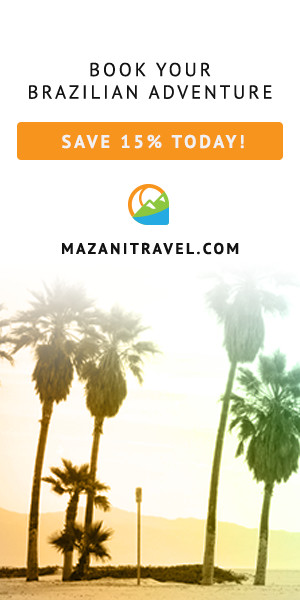
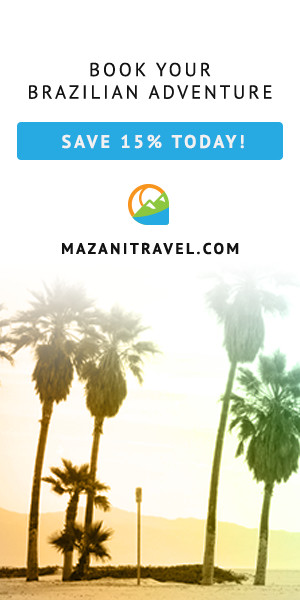
revamped add and added border for emphasis

Changed region(s): [[0.03, 0.18, 0.96, 0.27]]

diff --git a/css/main.min.css b/css/main.min.css
@@ -1,1 +1,1 @@
-.active,mark{font-weight:700}a,hr{padding:0}a:link,ins{text-decoration:none}#mobilenav,body{background:#F1F1F2}.ui-datepicker,body{font-family:'PT Sans',Helvetica,Futura,sans-serif}#info img,article,aside,details,figcaption,figure,footer,header,hgroup,hr,menu,nav,section{display:block}#confirm,#desinationsLinks,#info h1,#mobilenav,#socialnav,.jumbotron,.sectionHeader{text-align:center}abbr,address,article,aside,audio,b,blockquote,body,canvas,caption,cite,code,dd,del,details,dfn,div,dl,dt,em,fieldset,figcaption,figure,footer,form,h1,h2,h3,h4,h5,h6,header,hgroup,html,i,iframe,img,ins,kbd,label,legend,li,mark,menu,nav,object,ol,p,pre,q,samp,section,small,span,strong,sub,summary,sup,table,tbody,td,tfoot,th,thead,time,tr,ul,var,video{margin:0;padding:0;border:0;outline:0;vertical-align:baseline;background:0 0}ins,mark{background-color:#ff9;color:#000}nav ul{list-style:none}blockquote,q{quotes:none}blockquote:after,blockquote:before,q:after,q:before{content:'';content:none}a{margin:0;vertical-align:baseline;background:0 0}mark{font-style:italic}del{text-decoration:line-through}abbr[title],dfn[title]{border-bottom:1px dotted;cursor:help}table{border-collapse:collapse;border-spacing:0}hr{height:1px;border:0;border-top:1px solid #ccc;margin:1em 0}input,select{vertical-align:middle}header{position:relative;-webkit-box-shadow:0 3px 5px 0 rgba(109,110,112,1);-moz-box-shadow:0 3px 5px 0 rgba(109,110,112,1);box-shadow:0 3px 5px 0 rgba(109,110,112,1)}#logo h1{width:313px;height:62px;margin-top:20px;background:url(../img/logo.png) left center no-repeat;text-indent:-2000px}.sectionHeader{padding:1.5em 0;color:#414142}#mobilenav i,#mobilenav ul li a,#mobilenav ul li a:link,#mobilenav ul li a:visited{color:#27A9E1}.navbar{margin-bottom:0}#navigation{margin-top:3em}#mainnav ul li a:link,#mainnav ul li a:visited{color:#404041}#mainnav ul li{font-size:1.25em;display:inline-block}#mainnav ul li a{padding-right:.5em}#mainnav ul li a:hover{background:0 0;font-weight:700}#mobilenav i{font-size:2em;padding:.5em 0}#mobilenav ul{border-top:1px solid #27AAE1}#mobilenav ul li{display:inline-block;font-size:1.5em;padding:.5em 0}#mobilenav ul li a{padding:0}#socialnav ul li{display:inline-block;font-size:2em;padding:.25em}#socialnav ul li a{color:#F1F1F2;padding:.25em .5em;border:2px solid #F1F1F2;border-radius:.25em}#socialnav ul li a:hover{color:#fff;border:2px solid #fff}.jumbo-btn,.jumbo-default-btn,.ui-state-highlight,.ui-widget-content .ui-state-highlight,.ui-widget-header .ui-state-highlight{border:1px solid #F7931D}#footernav ul li{display:inline-block;padding:.5em .5em 0 0}#footernav ul li a{color:#F1F1F2}#desinationsLinks ul li{display:inline-block;margin-top:1.5em;font-size:1.5em}#desinationsLinks ul li a{margin:1em;color:#414142}#desinationsLinks ul li a:hover{color:#6D6E71}.jumbotron{height:900px;background:url(../img/bg.jpg) top center no-repeat #414142;background-size:cover;margin-bottom:0;color:#404041}.jumbotron h1{margin-top:2em;color:#404041}.jumbotron h2,.jumbotron p{margin:1em;color:#404041}#bookingSection,#confirm,#confirmationButtons{margin:2em 0}#bookButtons,#infoContent{margin-top:2em}.jumbo-btn{background:#F7931D;color:#404041}.jumbo-btn:hover{background:#D47608;color:#F1F1F2}.jumbo-default-btn{background:rgba(241,241,242,.9);color:#404041}.jumbo-default-btn:hover{background:rgba(215,215,217,.9)}.form-control{background:#fff;color:#6D6E71}#bookForm span label{display:block;font-size:1.5em;font-weight:400;margin:.5em 0}#bookForm input,#bookForm select,button{margin-right:1em}.ui-widget-header{background:#F1F1F2}.ui-datepicker .ui-datepicker-header,.ui-datepicker .ui-datepicker-next,.ui-datepicker .ui-datepicker-prev,.ui-datepicker .ui-datepicker-title{background:#27A9E1}.ui-state-default,.ui-widget-content .ui-state-default,.ui-widget-header .ui-state-default{background:#F1F1F2}#confirm{background:#fff}#confirm h2,#confirm h3{font-weight:700;margin:.5em 0}#confirm h4{font-weight:700;margin:1em 0}#destinationsGallery{margin-top:2em;margin-bottom:2em}#destinationsGallery .photo{background:#F7941E;padding:0}#destinationsGallery .caption{position:absolute;font-size:3em;font-weight:700;color:#F1F2F2;padding:2em .25em}#destinationsGallery img{opacity:.4}#destinationsGallery img:hover{opacity:1}footer{background:#F7931D;padding:1em 0;color:#F1F1F2}#info{background:#fff;padding:4em 0}#info h1{font-size:400%;margin-bottom:1em}#info img{margin:0 auto}#infoContent h3,#infoContent ul{margin:1em 0 .5em}#desinationsLinks{margin:1.5em 0 .25em}#desinationsLinks h2{margin-bottom:.5em}@media only screen and (max-width:767px){#logo h1{width:62px;margin:1em auto 0}.sectionHeader{margin:0 1em}#mobilenav ul li{font-size:1.25em;display:block}#navigation{margin-top:0}#logo,#navigation{float:none!important}#attractions,#footernav,#funfacts,#package,#socialnav{margin-top:1em}#footernav ul li{padding:.5em 1em}#desinationsLinks ul li{display:block;padding:.5em;margin:.25em}.jumbotron{height:600px}.jumbotron h1{font-size:2em}.jumbotron h2{font-size:1.5em}#destinationsGallery{margin-bottom:0}#destinationsGallery .caption{font-size:2em;color:#F1F2F2}#bookButtons{text-align:center}#credits,#footernav{margin-bottom:2em;text-align:center}#credits h2,#footernav{font-weight:700;font-size:1.125em}#credits p,#infoContent{padding:0 1.5em}#credits h2,#credits p,#footernav h2{margin:.5em 0}}@media only screen and (min-width:768px) and (max-width:990px){#logo h1{background-size:75%}#mainnav ul li a{font-size:1.5rem}#bookForm{text-align:center}}
+.active,mark{font-weight:700}a,hr{padding:0}a:link,ins{text-decoration:none}#mobilenav,body{background:#F1F1F2}.ui-datepicker,body{font-family:'PT Sans',Helvetica,Futura,sans-serif}#info img,article,aside,details,figcaption,figure,footer,header,hgroup,hr,menu,nav,section{display:block}#confirm,#desinationsLinks,#info h1,#mobilenav,#socialnav,.jumbotron,.sectionHeader{text-align:center}abbr,address,article,aside,audio,b,blockquote,body,canvas,caption,cite,code,dd,del,details,dfn,div,dl,dt,em,fieldset,figcaption,figure,footer,form,h1,h2,h3,h4,h5,h6,header,hgroup,html,i,iframe,img,ins,kbd,label,legend,li,mark,menu,nav,object,ol,p,pre,q,samp,section,small,span,strong,sub,summary,sup,table,tbody,td,tfoot,th,thead,time,tr,ul,var,video{margin:0;padding:0;border:0;outline:0;vertical-align:baseline;background:0 0}ins,mark{background-color:#ff9;color:#000}nav ul{list-style:none}blockquote,q{quotes:none}blockquote:after,blockquote:before,q:after,q:before{content:'';content:none}a{margin:0;vertical-align:baseline;background:0 0}mark{font-style:italic}del{text-decoration:line-through}abbr[title],dfn[title]{border-bottom:1px dotted;cursor:help}table{border-collapse:collapse;border-spacing:0}hr{height:1px;border:0;border-top:1px solid #ccc;margin:1em 0}input,select{vertical-align:middle}header{position:relative;-webkit-box-shadow:0 3px 5px 0 rgba(109,110,112,1);-moz-box-shadow:0 3px 5px 0 rgba(109,110,112,1);box-shadow:0 3px 5px 0 rgba(109,110,112,1)}#logo h1{width:313px;height:62px;margin-top:20px;background:url(../img/logo.png) left center no-repeat;text-indent:-2000px}.sectionHeader{padding:1.5em 0;color:#414142}#mobilenav i,#mobilenav ul li a,#mobilenav ul li a:link,#mobilenav ul li a:visited{color:#27A9E1}.navbar{margin-bottom:0}#navigation{margin-top:3em}#mainnav ul li a:link,#mainnav ul li a:visited{color:#404041}#mainnav ul li{font-size:1.25em;display:inline-block}#mainnav ul li a{padding-right:.5em}#mainnav ul li a:hover{background:0 0;font-weight:700}#mobilenav i{font-size:2em;padding:.5em 0}#mobilenav ul{border-top:1px solid #27AAE1}#mobilenav ul li{display:inline-block;font-size:1.5em;padding:.5em 0}#mobilenav ul li a{padding:0}#socialnav ul li{display:inline-block;font-size:2em;padding:.25em}#socialnav ul li a{color:#F1F1F2;padding:.25em .5em;border:2px solid #F1F1F2;border-radius:.25em}#socialnav ul li a:hover{color:#fff;border:2px solid #fff}.jumbo-btn,.jumbo-default-btn,.ui-state-highlight,.ui-widget-content .ui-state-highlight,.ui-widget-header .ui-state-highlight{border:1px solid #F7931D}#footernav ul li{display:inline-block;padding:.5em .5em 0 0}#footernav ul li a{color:#F1F1F2}#desinationsLinks ul li{display:inline-block;margin-top:1.5em;font-size:1.5em}#desinationsLinks ul li a{margin:1em;color:#414142}#desinationsLinks ul li a:hover{color:#6D6E71}.jumbotron{height:900px;background:url(../img/bg.jpg) top center no-repeat #414142;background-size:cover;margin-bottom:0;color:#404041}.jumbotron h1{margin-top:2em;color:#404041}.jumbotron h2,.jumbotron p{margin:1em;color:#404041}#bookingSection,#confirm,#confirmationButtons{margin:2em 0}#bookButtons,#infoContent{margin-top:2em}.jumbo-btn{background:#F7931D;color:#404041}.jumbo-btn:hover{background:#D47608;color:#F1F1F2}.jumbo-default-btn{background:rgba(241,241,242,.9);color:#404041}.jumbo-default-btn:hover{background:rgba(215,215,217,.9)}.form-control{background:#fff;color:#6D6E71}#bookForm span label{display:block;font-size:1.5em;font-weight:400;margin:.5em 0}#bookForm input,#bookForm select,button{margin-right:1em}.ui-widget-header{background:#F1F1F2}.ui-datepicker .ui-datepicker-header,.ui-datepicker .ui-datepicker-next,.ui-datepicker .ui-datepicker-prev,.ui-datepicker .ui-datepicker-title{background:#27A9E1}.ui-state-default,.ui-widget-content .ui-state-default,.ui-widget-header .ui-state-default{background:#F1F1F2}#confirm{background:#fff}#confirm h2,#confirm h3{font-weight:700;margin:.5em 0}#confirm h4{font-weight:700;margin:1em 0}#ad img{border:1px solid #404041}#destinationsGallery{margin-top:2em;margin-bottom:2em}#destinationsGallery .photo{background:#F7941E;padding:0}#destinationsGallery .caption{position:absolute;font-size:3em;font-weight:700;color:#F1F2F2;padding:2em .25em}#destinationsGallery img{opacity:.4}#destinationsGallery img:hover{opacity:1}footer{background:#F7931D;padding:1em 0;color:#F1F1F2}#info{background:#fff;padding:4em 0}#info h1{font-size:400%;margin-bottom:1em}#info img{margin:0 auto}#infoContent h3,#infoContent ul{margin:1em 0 .5em}#desinationsLinks{margin:1.5em 0 .25em}#desinationsLinks h2{margin-bottom:.5em}@media only screen and (max-width:767px){#logo h1{width:62px;margin:1em auto 0}.sectionHeader{margin:0 1em}#mobilenav ul li{font-size:1.25em;display:block}#navigation{margin-top:0}#logo,#navigation{float:none!important}#attractions,#footernav,#funfacts,#package,#socialnav{margin-top:1em}#footernav ul li{padding:.5em 1em}#desinationsLinks ul li{display:block;padding:.5em;margin:.25em}.jumbotron{height:600px}.jumbotron h1{font-size:2em}.jumbotron h2{font-size:1.5em}#destinationsGallery{margin-bottom:0}#destinationsGallery .caption{font-size:2em;color:#F1F2F2}#bookButtons{text-align:center}#credits,#footernav{margin-bottom:2em;text-align:center}#credits h2,#footernav{font-weight:700;font-size:1.125em}#credits p,#infoContent{padding:0 1.5em}#credits h2,#credits p,#footernav h2{margin:.5em 0}}@media only screen and (min-width:768px) and (max-width:990px){#logo h1{background-size:75%}#mainnav ul li a{font-size:1.5rem}#bookForm{text-align:center}}

diff --git a/css/main.css b/css/main.css
@@ -369,6 +369,12 @@ input, select {
 		margin: 2em 0;
 	}
 
+	/* Ad */
+
+	#ad img {
+		border: 1px solid #404041;
+	}
+
 
 /* ======== Destinations ======== */
 
